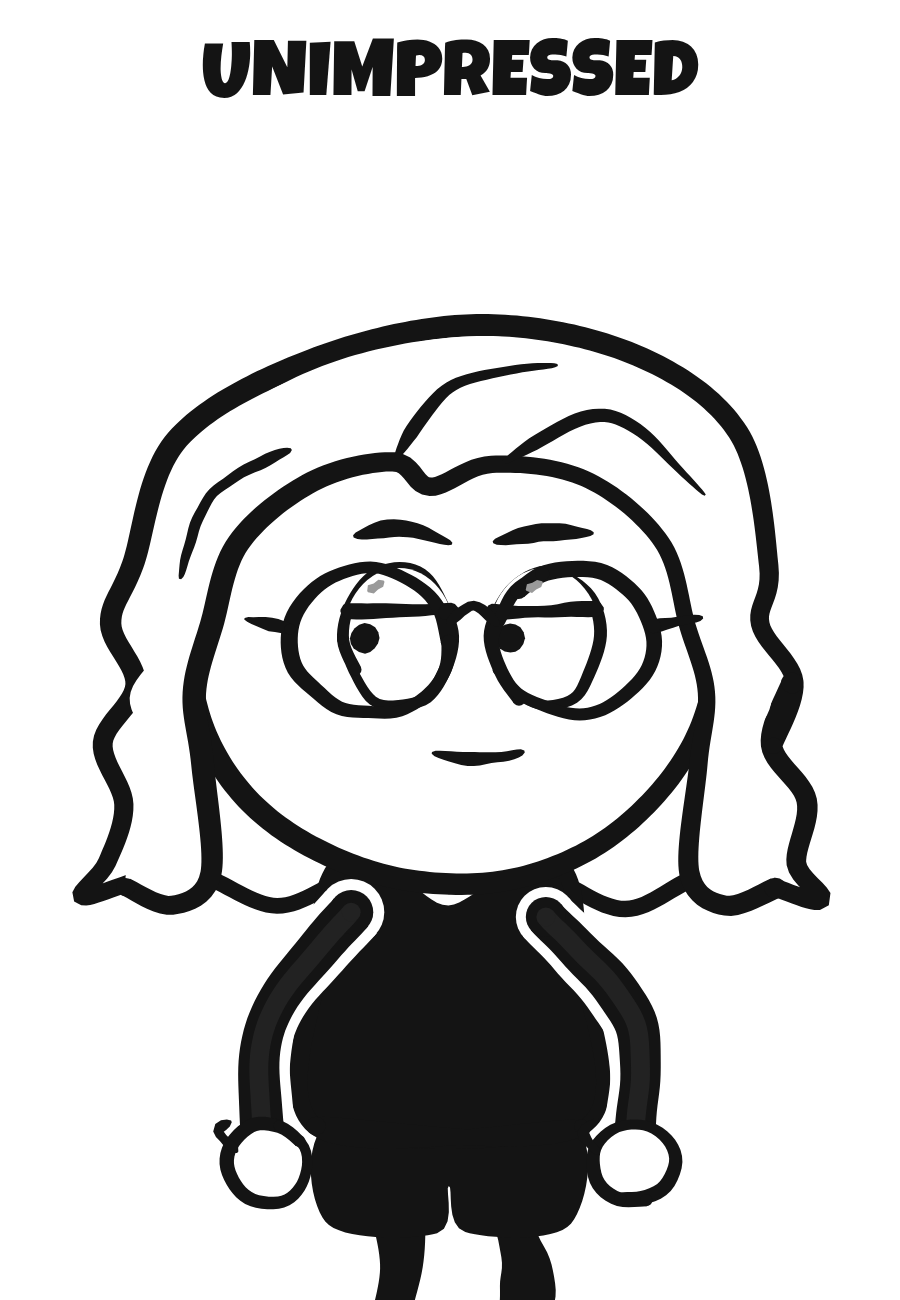
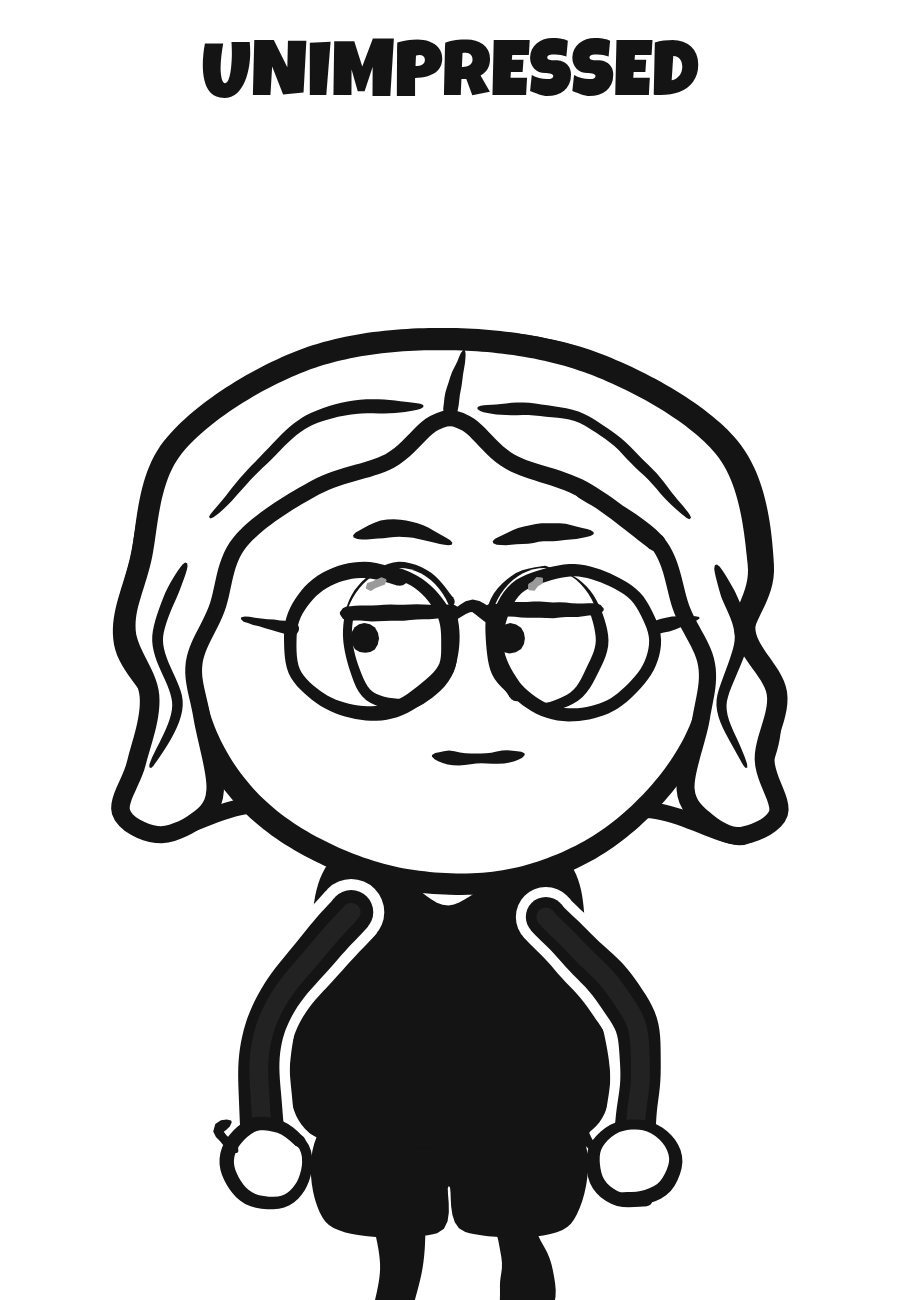
Nick: middle-part hair is now the approved design (Cameos.nick)
The previous hair stays available as Cameos.nickOld. Extinct re-rendered with
it; Nick's emotion sheets re-rendered.

Claude-Session: https://claude.ai/code/session_01BoxvgZ1TpRreVfD9rN3XD5

diff --git a/web/cameos.js b/web/cameos.js
@@ -665,8 +665,9 @@ const Cameos = (() => {
     headScale: [1.04, 0.98],
     head: head({ hair: b ? SEAMLESS_FRONT : (ctx => NICK_OUTLINE.sweptWave(ctx)), front: roundGlasses }),
     detail: (ctx, n) => stroke(ctx, [[-32, n + 2], [0, n + 24], [32, n + 2]], { w: 7, color: W }) })]));
-  // Trial (not the approved design): middle part, wavy sides ending around the
-  // jaw. A symmetric top shared by the front piece and the silhouette behind.
+  // Nick's approved hair (Cameos.nick): middle part, wavy sides ending around
+  // the jaw, back hair the same length. The previous design is Cameos.nickOld.
+  // A symmetric top shared by the front piece and the silhouette behind.
   const MID_TOP = [[-1.04, -0.86], [-0.56, -1.22], [0, -1.32], [0.56, -1.22], [1.04, -0.86]];
   const midBack = ({ len = 0.8, wide = 1.24, waves = 3, strands = false } = {}) => ctx => {
     const bottom = [];
@@ -1050,5 +1051,5 @@ const Cameos = (() => {
     beard: build({ shirt: '#8a8a8a', sleeve: '#8a8a8a', sleeveHem: 0.42, head: head({ hair: shaggy, beard: fullBeard }), detail: collarTee }),
   };
 
-  return { speed, ludwig, beast, nick: nickBack.same, slime, originals, originals2, men, spikyShades, spikyAccents, nickAlts, nickFlow, nickOutline, nickBack, nickMidPart, nickMidLayered, props: { cash, bigCheck }, parts: { build, head, hh, RX, RY } };
+  return { speed, ludwig, beast, nick: nickMidPart, nickOld: nickBack.same, slime, originals, originals2, men, spikyShades, spikyAccents, nickAlts, nickFlow, nickOutline, nickBack, nickMidPart, nickMidLayered, props: { cash, bigCheck }, parts: { build, head, hh, RX, RY } };
 })();
